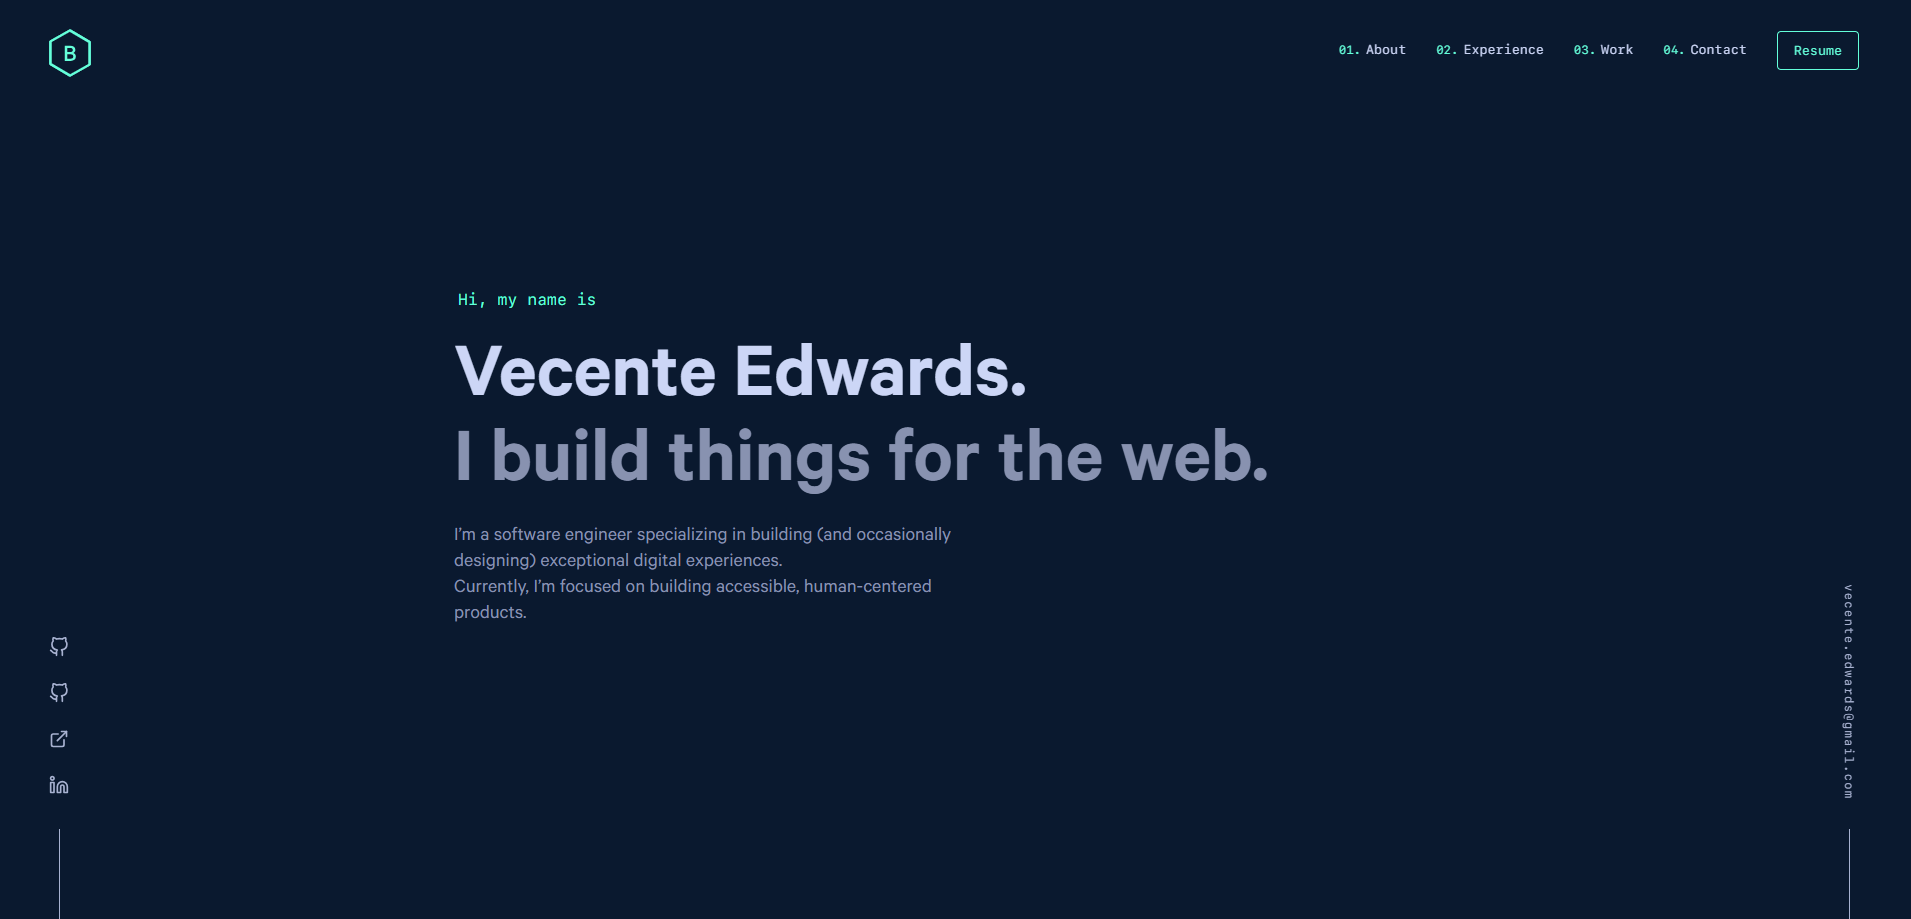
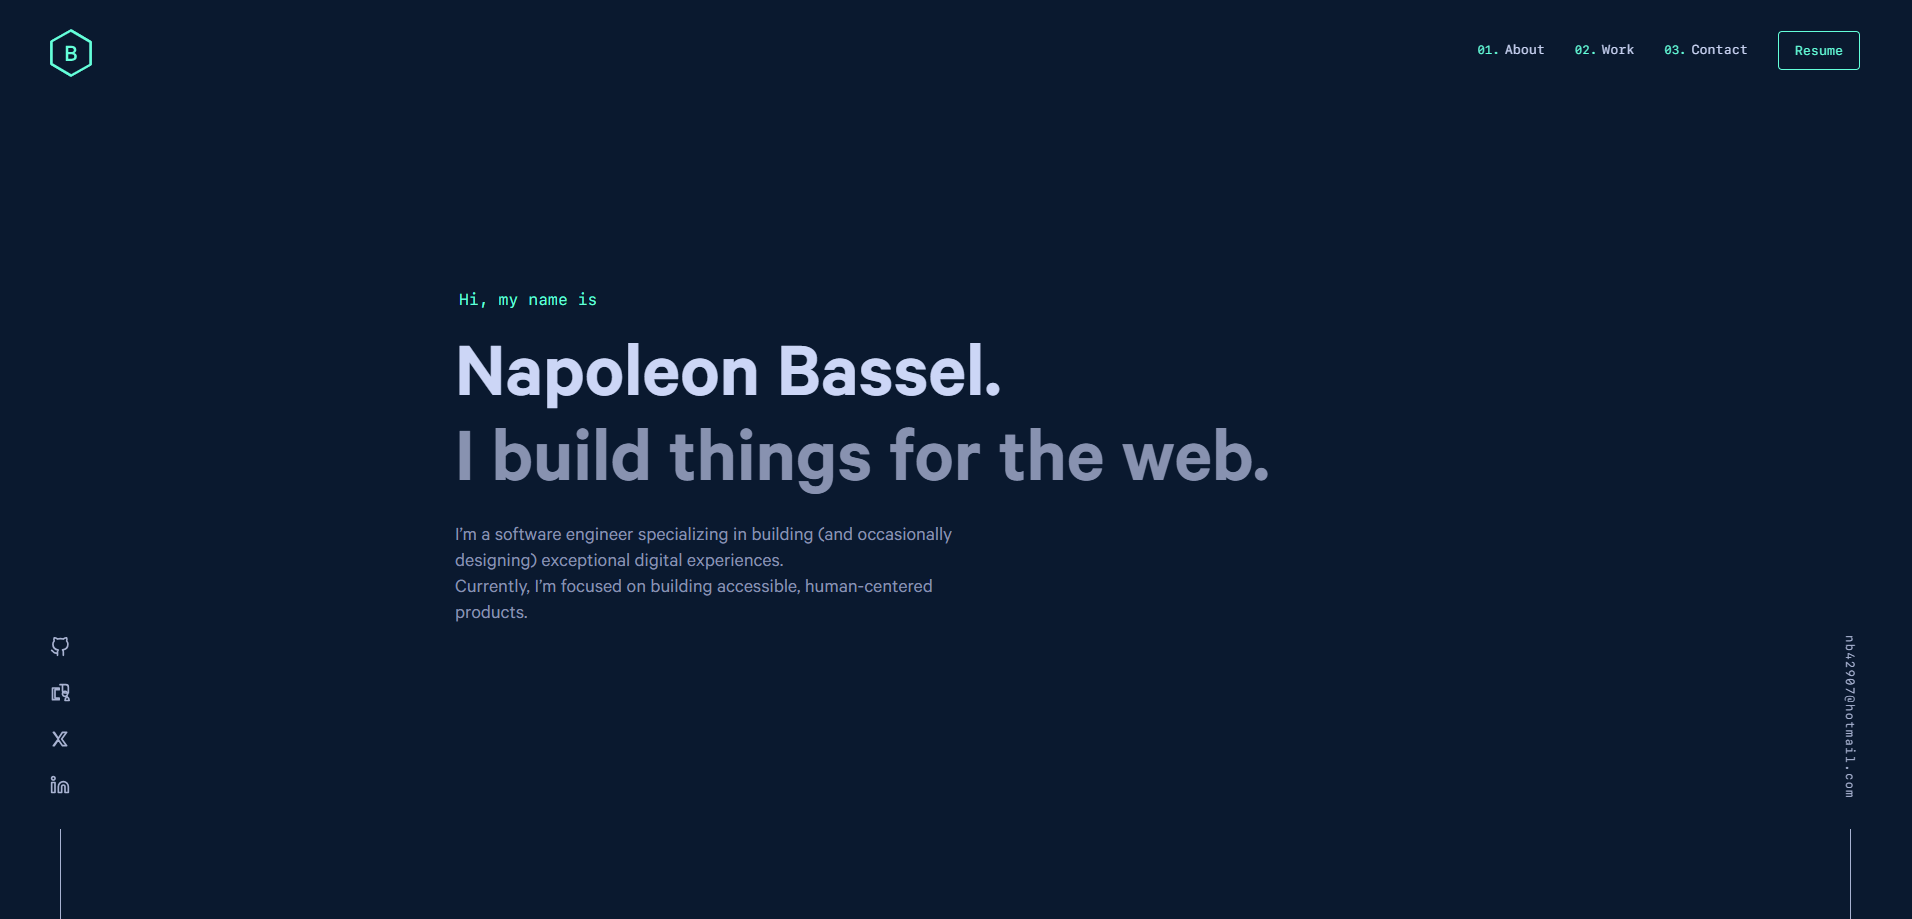
second

diff --git a/src/components/sections/about.js b/src/components/sections/about.js
@@ -135,7 +135,7 @@ const About = () => {
         <StyledText>
           <div>
             <p>
-              Hello! My name is nb429 and I enjoy creating things that live on the internet.<br></br>
+              Hello! My name is Napoleon Bassel and I enjoy creating things that live on the internet.<br></br>
               My interest in web development started back in 2017 when I decided to try editing first
               project about HTML &amp; CSS.
             </p>
@@ -162,7 +162,7 @@ const About = () => {
           <div className="wrapper">
             <StaticImage
               className="img"
-              src="../../images/me.jpg"
+              src="../../images/me.png"
               width={500}
               quality={95}
               formats={['AUTO', 'WEBP', 'AVIF']}

diff --git a/src/components/sections/hero.js b/src/components/sections/hero.js
@@ -60,7 +60,7 @@ const Hero = () => {
   }, []);
 
   const one = <h1>Hi, my name is</h1>;
-  const two = <h2 className="big-heading">nb429.</h2>;
+  const two = <h2 className="big-heading">Napoleon Bassel.</h2>;
   const three = <h3 className="big-heading">I build things for the web.</h3>;
   const four = (
     <>
